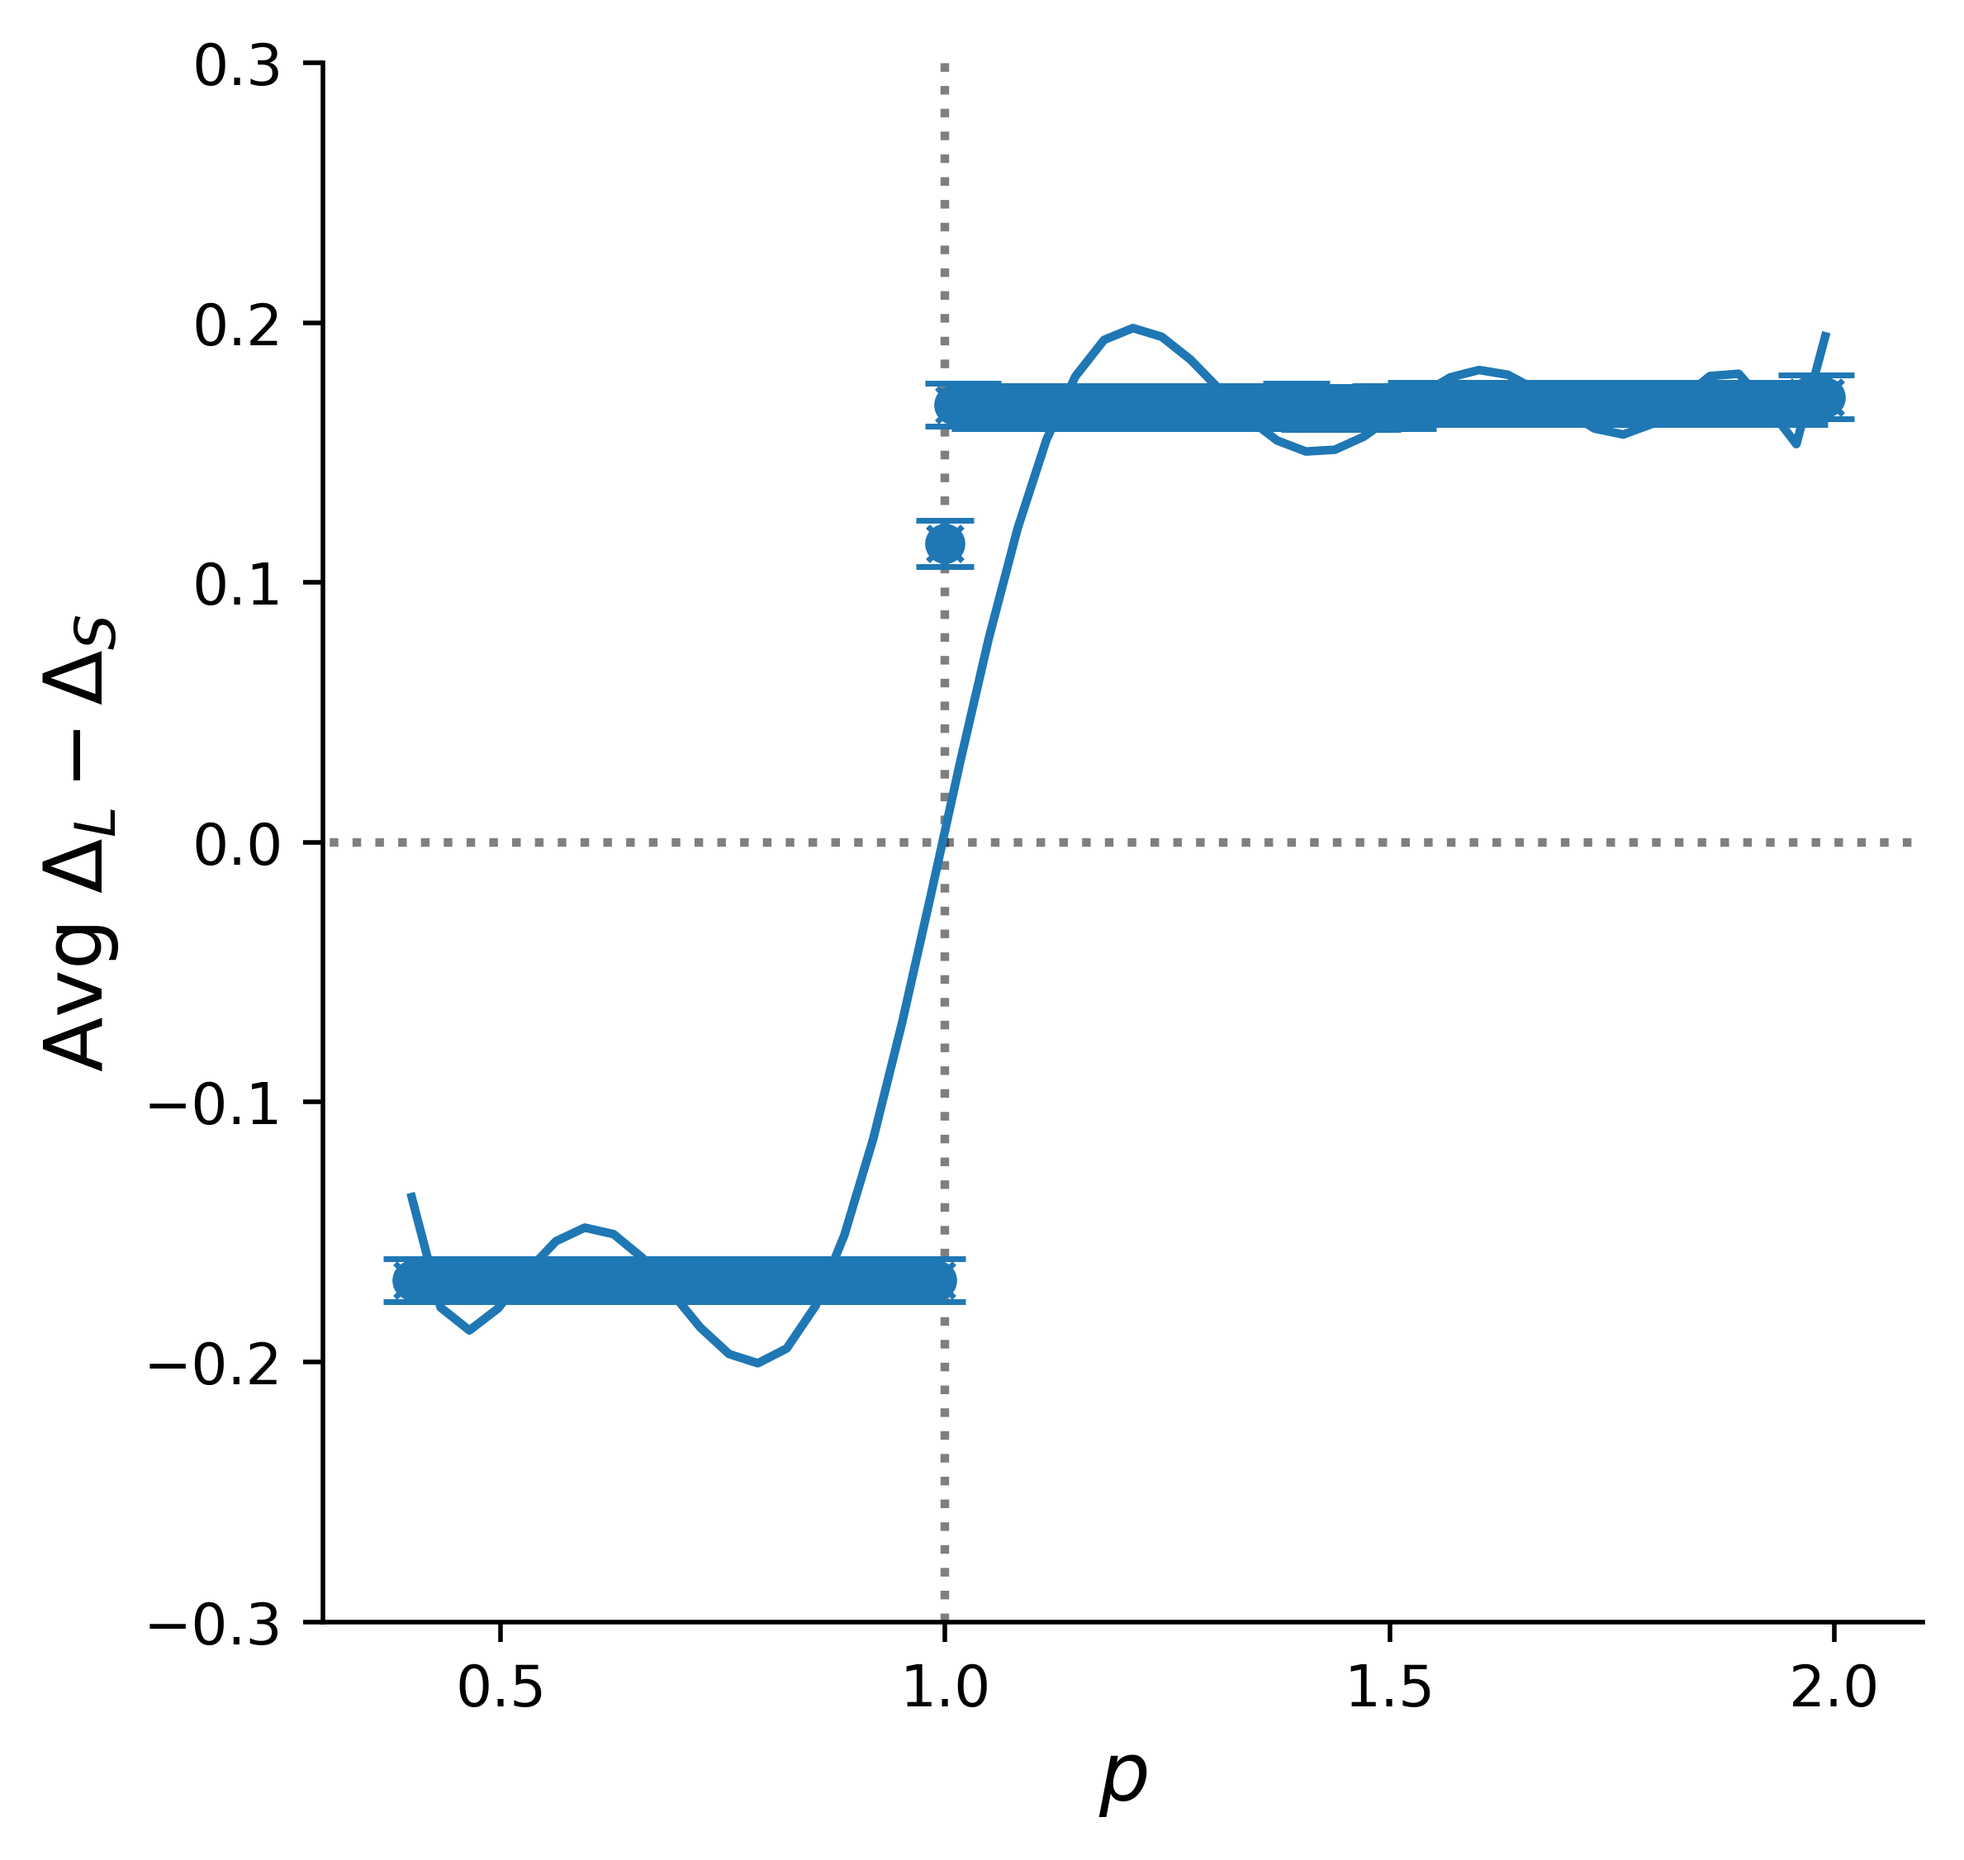
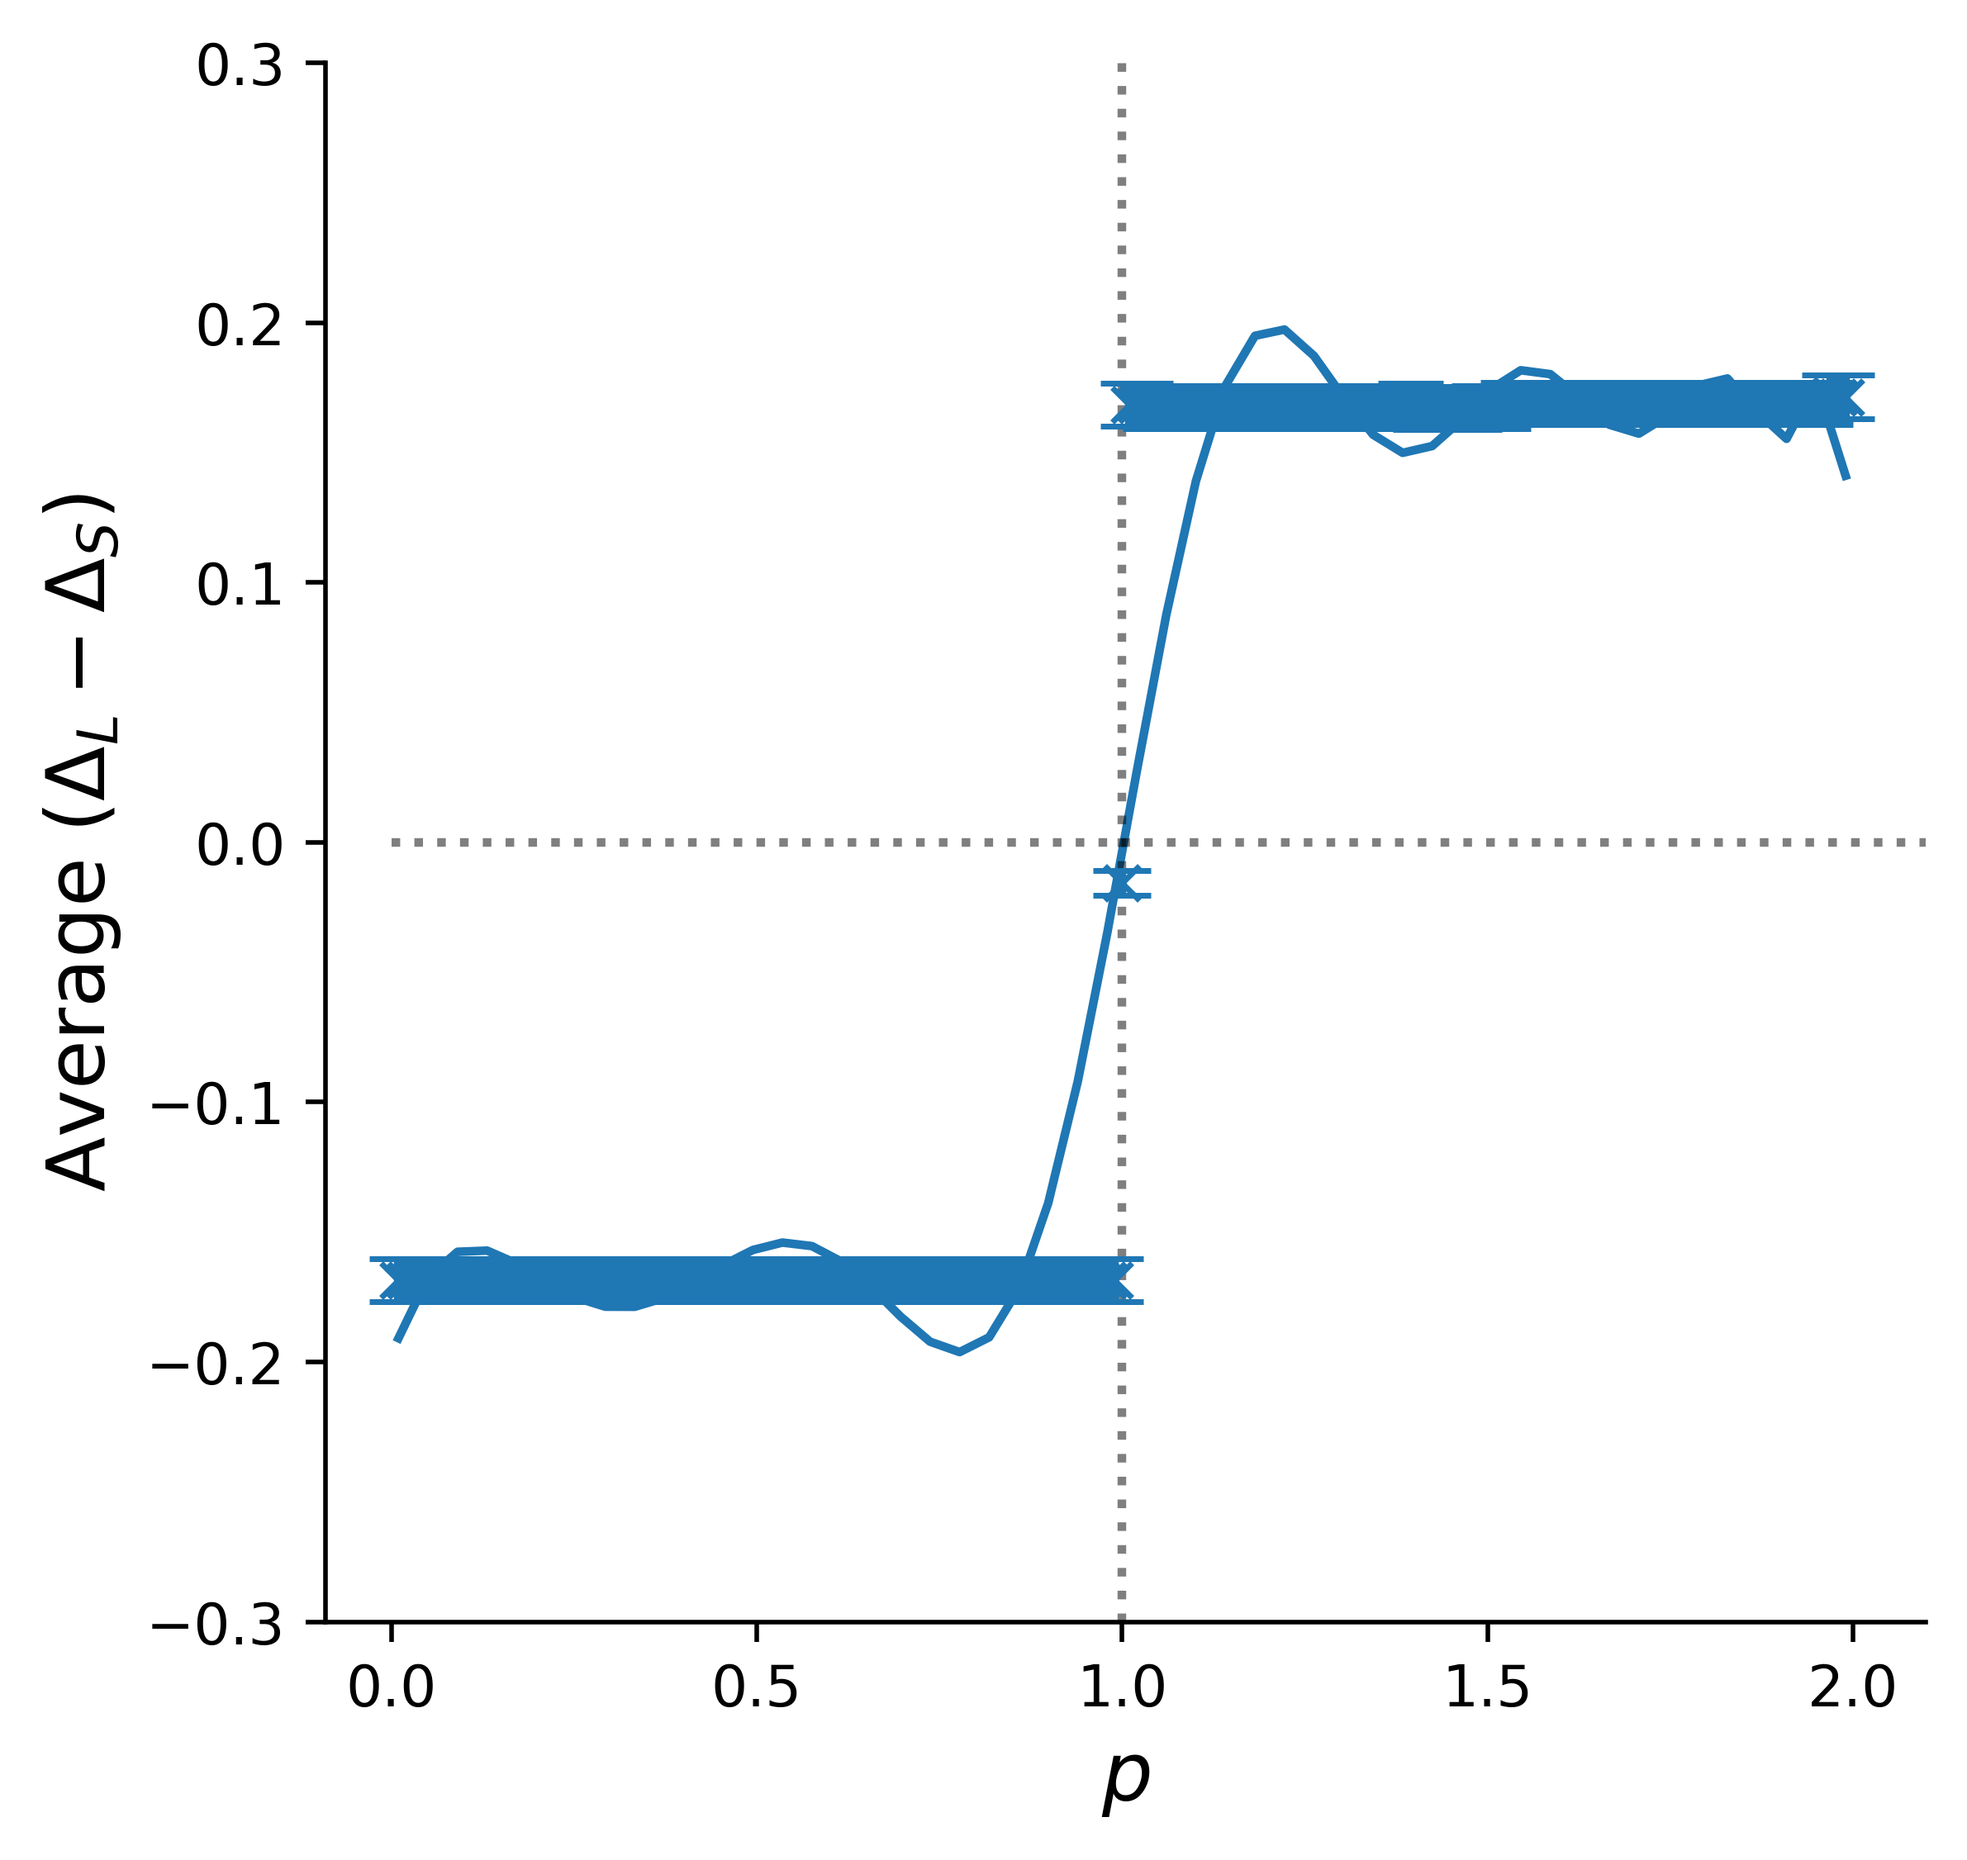
Updated plots with Tim's advice
Updated plots with Tim's advice,
formatting changes for plots in classes

diff --git a/plots.py b/plots.py
@@ -108,12 +108,13 @@ class Plots:
             ax.spines['right'].set_visible(False)
             ax.spines['top'].set_visible(False)
             ax.set_xlabel('$p$', fontsize=14)
-            ax.set_ylabel('{} $\delta$'.format(delta_type.capitalize()), fontsize=14)
+            # note set the ylabel to only be for the avg as that is what we will use
+            ax.set_ylabel(r'$\bar{\delta}$', fontsize=14)
             #ax.set_ylabel('Mean $\delta$', fontsize=14)
             #ax.set_xticks(np.arange(p_start,p_end,0.5)) 
-            ax.set_xticks(np.arange(0.0,2.1,0.5))
+            ax.set_xticks(np.arange(0.0,4,0.5))
             #ax.set_xlim(p_start - 0.1, p_end + 0.1)
-            ax.set_xlim(0,2.01)
+            ax.set_xlim(0,4.01)
             ax.set_ylim(-0.5,0.1)
             
             # curve fitting
@@ -135,10 +136,10 @@ class Plots:
             #plot
             plt.plot(x_vals, y_vals, linestyle='-', color='C30')
 
-            plt.hlines(0,0,2.1, linestyle=':', color='k', alpha=0.5)
-			plt.vlines(1,-0.5, 0.1, linestyle=':', color='k', alpha=0.5)
+            plt.hlines(0,0,10, linestyle=':', color='k', alpha=0.5)
+            plt.vlines(1,-10, 10, linestyle=':', color='k', alpha=0.5)
             plt.plot(p_vals, mean_deltas, marker='x', linestyle='', color='C30', label='Average $\delta$')
-            plt.errorbar(p_vals, mean_deltas, yerr=errors, fmt='o', color='C30', capsize=5)
+            plt.errorbar(p_vals, mean_deltas, yerr=errors, fmt='.', color='C30', capsize=5, markersize= 1)
             
             plt.savefig('ResultPlot1_{}_delta.png'.format(delta_type), dpi=500, bbox_inches='tight')
             plt.show()
@@ -180,7 +181,7 @@ class Plots:
                 axs[m].plot(x_vals, y_vals, linestyle='-', color='C30')
 
                 axs[m].hlines(0,0,2.1, linestyle=':', color='k', alpha=0.5)
-				axs[m].vlines(1,-0.5, 0.2, linestyle=':', color='k', alpha=0.5)
+                axs[m].vlines(1,-0.5, 0.2, linestyle=':', color='k', alpha=0.5)
                 axs[m].plot(p_vals, mean_deltas_list[m], marker='x', linestyle='', color='C30',\
                          label='{} $\delta$'.format(delta_types_list[m]))
                 axs[m].errorbar(p_vals, mean_deltas_list[m], yerr=errors_list[m], fmt='o', color='C30', capsize=5)
@@ -285,8 +286,9 @@ class Plots:
             ax.spines['right'].set_visible(False)
             ax.spines['top'].set_visible(False)
             ax.set_xlabel('$p$', fontsize=14)
-            ax.set_ylabel(r'{} $\Delta_L - \Delta_S$'.format(perp_type.capitalize()), fontsize=14)
-			#ax.set_xticks(np.arange(p_start,p_end,0.5)) 
+            # note set the ylabel to only be for the avg as that is what we will use
+            ax.set_ylabel(r'Average $(\Delta_L - \Delta_S)}$', fontsize=14)
+            #ax.set_xticks(np.arange(p_start,p_end,0.5)) 
             ax.set_xticks(np.arange(0,2.1,0.5))
             ax.set_xlim(p_start - 0.1, p_end + 0.1)
             ax.set_ylim(-0.3,0.3)
@@ -310,9 +312,10 @@ class Plots:
             plt.plot(x_vals, y_vals, linestyle='-', color='C30')
 
             plt.hlines(0,0,2.1, linestyle=':', color='k', alpha=0.5)
-			plt.vlines(1, -0.3, 0.3, linestyle=':', color='k', alpha=0.5)
+            plt.vlines(1, -0.3, 0.3, linestyle=':', color='k', alpha=0.5)
             plt.plot(p_vals, mean_perps, marker='x', linestyle='', color='C30', label='Average perps')
-            plt.errorbar(p_vals, mean_perps, yerr=errors, fmt='o', color='C30', capsize=5)
+            plt.errorbar(p_vals, mean_perps, yerr=errors, fmt='.', markersize = 1,\
+                         color='C30', capsize=5)
             
             plt.savefig('ResultPlot2_{}_perp.png'.format(perp_type), dpi=500, bbox_inches='tight')
             plt.show()
@@ -351,7 +354,7 @@ class Plots:
                 
                 #plot
                 axs[m].plot(x_vals, y_vals, linestyle='-', color='C30')
-				axs[m].vlines(1, -0.3, 0.3, linestyle=':', color='k', alpha=0.5)
+                axs[m].vlines(1, -0.3, 0.3, linestyle=':', color='k', alpha=0.5)
                 axs[m].hlines(0,0,2.1, linestyle=':', color='k', alpha=0.5)
                 axs[m].plot(p_vals, mean_perps_list[m], marker='x', linestyle='', color='C30',\
                          label='{} $\delta$'.format(perp_types_list[m]))
@@ -419,10 +422,10 @@ class Plots:
         ax.spines['right'].set_visible(False)
         ax.spines['top'].set_visible(False)
         ax.set_xlabel('$p$', fontsize=14)
-        ax.set_ylabel(r'$L_{p, path} - L_{p, geo}$', fontsize=14)
-        ax.set_xticks(np.arange(p_start,p_end,0.3)) 
-        ax.set_xlim(p_start - 0.1, p_end + 0.1)
-        ax.set_ylim(0.0,0.001)
+        ax.set_ylabel(r'|$L_{p, path} - L_{p, geo}|$', fontsize=14)
+        ax.set_xticks(np.arange(p_start,p_end,0.02)) 
+        ax.set_xlim(p_start - 0.01, p_end + 0.01)
+        ax.set_ylim(-0.000001,0.001)
         
         # curve fitting for longest and shortest
         # list to store the data for the shortest and longest path respectively
@@ -461,11 +464,12 @@ class Plots:
                      label = "{} Metric Path Fit".format(path_names[m]))
             
 
-        plt.hlines(0,0,2.1, linestyle=':', color='k', alpha=0.5)
+        #plt.hlines(0,0,4.1, linestyle=':', color='k', alpha=0.5)
+        plt.vlines(1, -10, 10, linestyle=':', color='k', alpha=0.5)
         
-        plt.errorbar(p_vals, sh_diffs, fmt='x', capsize = 5, yerr = sh_errors,\
+        plt.errorbar(p_vals, sh_diffs, fmt='x', markersize = 5, capsize = 5, yerr = sh_errors,\
                      label='Shortest Metric Path')
-        plt.errorbar(p_vals, lo_diffs, fmt='x', capsize = 5, yerr = lo_errors,\
+        plt.errorbar(p_vals, lo_diffs, fmt='x', markersize = 5, capsize = 5, yerr = lo_errors,\
                      label='Longest Metric Path')
         plt.legend()
         

diff --git a/run_plots.py b/run_plots.py
@@ -15,11 +15,23 @@ plotter = pls.Plots()
 
 #%% delta vs p "all"
 
-plotter.delta_vs_p(p_start = 0.01, p_end = 2, p_step = 0.1, nodes = 50, trials = 10, delta_type = "all")
+#plotter.delta_vs_p(p_start = 0.01, p_end = 4, p_step = 0.1, nodes = 100, trials = 100, delta_type = "avg", radius = 1e100)
+
+#p_start = 0.01, p_end = 4, p_step = 0.1, nodes = 100, trials = 100:
+#Time taken: 1290.1173989772797
+#avg delta_3.91 = 0.0850739936478105 so triangle inequality: True
+#x-intercept for avg: [0.9998672]
 
 #%% plot 2 single avg
-#plotter.perp_vs_p(p_start = 0.4, p_step= 0.01, trials = 50, nodes = 10, poly_order = 16, radius =1923)
+#plotter.perp_vs_p(p_start = 0.01, p_step= 0.01, trials = 50, nodes = 10, poly_order = 25, radius =1e100)
 
+# for p_start = 0.01, p_step= 0.01, trials = 50, nodes = 10, poly_order = 25, radius =1e100
+# 
+"""Time taken: 25.0464289188385
+The average difference in longest and shortest metric path deviations from the geodesic is: 0.2128978795213209
+The minimum difference in longest and shortest metric path deviations from the geodesic is: 0.0
+The maximum difference in longest and shortest metric path deviations from the geodesic is: 0.6386936385639627
+x-intercept for avg: [-0.90856435  0.9974721   0.49830962  0.42101218]"""
 #%% plot 2 single max
 
 #plotter.perp_vs_p(p_start = 0.4, p_step= 0.01, trials = 50, nodes = 10, poly_order = 16, radius =1923, perp_type="max")
@@ -31,7 +43,7 @@ plotter.delta_vs_p(p_start = 0.01, p_end = 2, p_step = 0.1, nodes = 50, trials =
 
 #max and min seem to give nonsense (min just gives 0 even though I've set geodesic = 0 ?)
 #%% plot 3 metric path
-#plotter.length_vs_p(p_start = 0.1, p_end = 2, p_step = 0.1, nodes = 50, trials = 10, radius = 1e78)
+plotter.length_vs_p(p_start = 0.9, p_end = 1.1, p_step = 0.005, nodes = 20, poly_order = 16, trials = 10, radius = 1e100)
 
 # =============================================================================
 # both have intercepts at exactly 1 
@@ -40,3 +52,14 @@ plotter.delta_vs_p(p_start = 0.01, p_end = 2, p_step = 0.1, nodes = 50, trials =
 #x-intercept for Longest: [9.18425967 3.37901698 2.44271483 1.63800233 1.32443848 1.11342973
  #1.        ]
 # =============================================================================
+""" for p_start = 0.9, p_end = 1.1, p_step = 0.005, nodes = 20, poly_order = 16, trials = 10, radius = 1e100
+Difference between geodesic and shortest metric path: 6.933881740533998e-05
+Difference between geodesic and longest metric path: 0.08529098535171808
+Difference between geodesic and shortest metric path: 6.933881740533998e-05
+Difference between geodesic and longest metric path: 0.08529098535171808
+x-intercept for Shortest: [-0.77409052 -0.64863987  1.          0.98631976  0.9476083   0.93557373
+  0.91229288]
+x-intercept for Longest: [-2.51935653  1.20055843  1.09757516  1.06211751  1.01320924  1.
+  0.79057233]
+/opt/anaconda3/lib/python3.8/site-packages/scipy/optimize/minpack.py:833: OptimizeWarning: Covariance of the parameters could not be estimated
+  warnings.warn('Covariance of the parameters could not be estimated',"""

diff --git a/Visualisation.py b/Visualisation.py
@@ -73,9 +73,9 @@ plt.show()
 
 #%% Manhattan Space Visualisation
 
-edges2 = [[0,1], [0,2], [2,1], [0,3], [3,4], [4,5], [5,1]]
+edges2 = [ [0,2], [2,1], [0,3], [3,4], [4,5], [5,1]]
 pos2 = {0: (0.0,0.0), 1: (1.0,1.0), 2: (0.0,1.0), 3: (0.7,0.0), 4: (0.7,0.3), 5: (1.0,0.3)}
-edge_colours2 = ['C30', 'C2', 'C3', 'C2', 'C3', 'C3', 'C3']
+edge_colours2 = ['C2', 'C3', 'C2', 'C3', 'C3', 'C3']
 
 G2 = nx.DiGraph()
 G2.add_edges_from(edges2)

diff --git a/Graph.py b/Graph.py
@@ -537,6 +537,8 @@ class Graph:
 
         diff_shortest = abs(Lp_shortest - Lp_geo)
         diff_longest = abs(Lp_longest - Lp_geo)
+        """diff_shortest = Lp_shortest - Lp_geo
+        diff_longest = Lp_longest - Lp_geo"""
         
         print('Difference between geodesic and shortest metric path:', diff_shortest)
         print('Difference between geodesic and longest metric path:', diff_longest)
